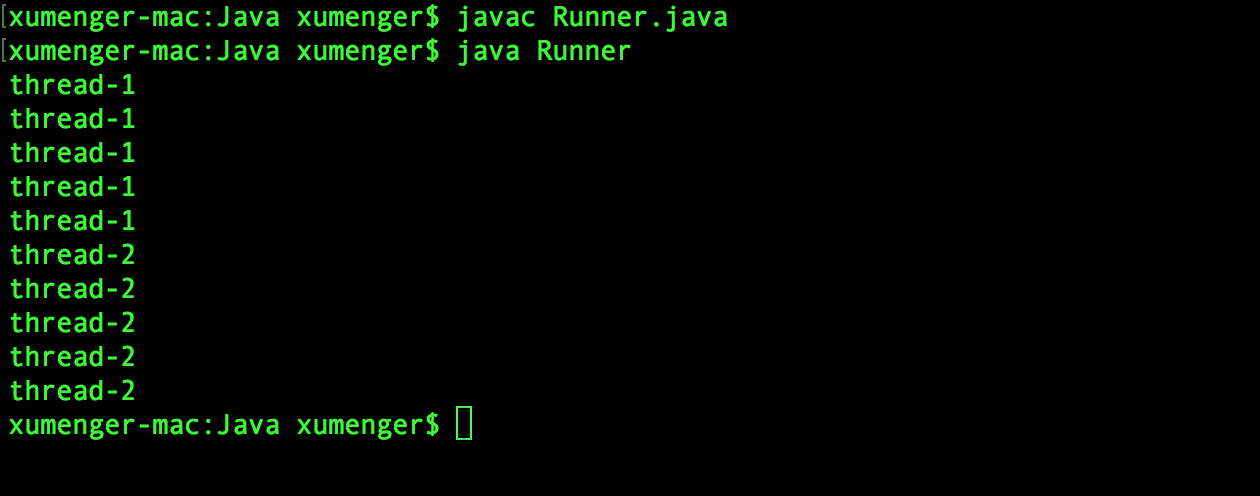
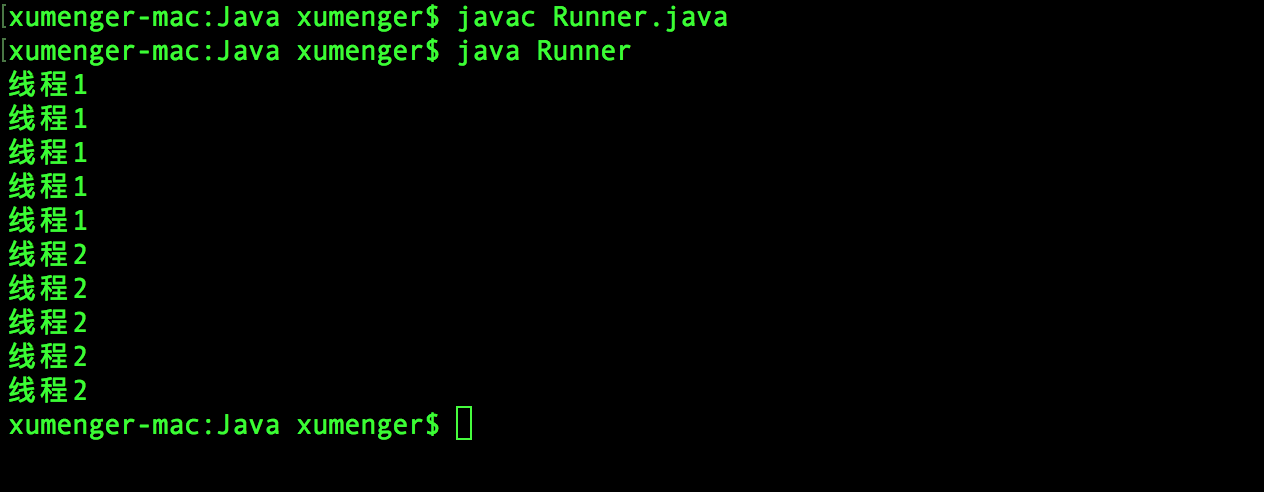
Java并发编程

Changed region(s): [[0.0, 0.0, 0.5881, 0.9146]]

diff --git a/_posts/2018-08-18-java-server-02-blockingqueue-20180818.md b/_posts/2018-08-18-java-server-02-blockingqueue-20180818.md
@@ -1,0 +1,12 @@
+---
+layout: post
+title: Java服务端开发：阻塞队列
+categories: 大型系统架构 java之多线程 java之面向对象
+tags: Java服务端开发 Java 服务端 服务器 阻塞队列 BlockingQueue 阻塞 非阻塞 poll 生产者 消费者 多线程 线程安全 数据机构 
+---
+
+阻塞队列是Java 的util.concurrent 包下重要的数据结构，BlockingQueue 提供了线程安全的队列访问方式：当往阻塞队列中插入数据，且队列已满时，线程将会阻塞等待队列非满；当从阻塞队列取数据，且队列为空时，线程将会阻塞等待队列非空
+
+JDK7 提供了以下7 个阻塞队列
+
+* 

diff --git a/_posts/2018-08-18-java-server-01-thread-runnable-20180818.md b/_posts/2018-08-18-java-server-01-thread-runnable-20180818.md
@@ -62,8 +62,8 @@ class Runner implements Runnable{
 
     public static void main(String[] args){
         Runner r = new Runner();
-        Thread t1 = new Thread(r, "thread-1");
-        Thread t2 = new Thread(r, "thread-2");
+        Thread t1 = new Thread(r, "线程1");
+        Thread t2 = new Thread(r, "线程2");
         t1.start();
         t2.start();
     }
@@ -73,3 +73,4 @@ class Runner implements Runnable{
 编译运行的效果如下
 
 ![](../media/image/2018-08-18/01-02.png)
+
